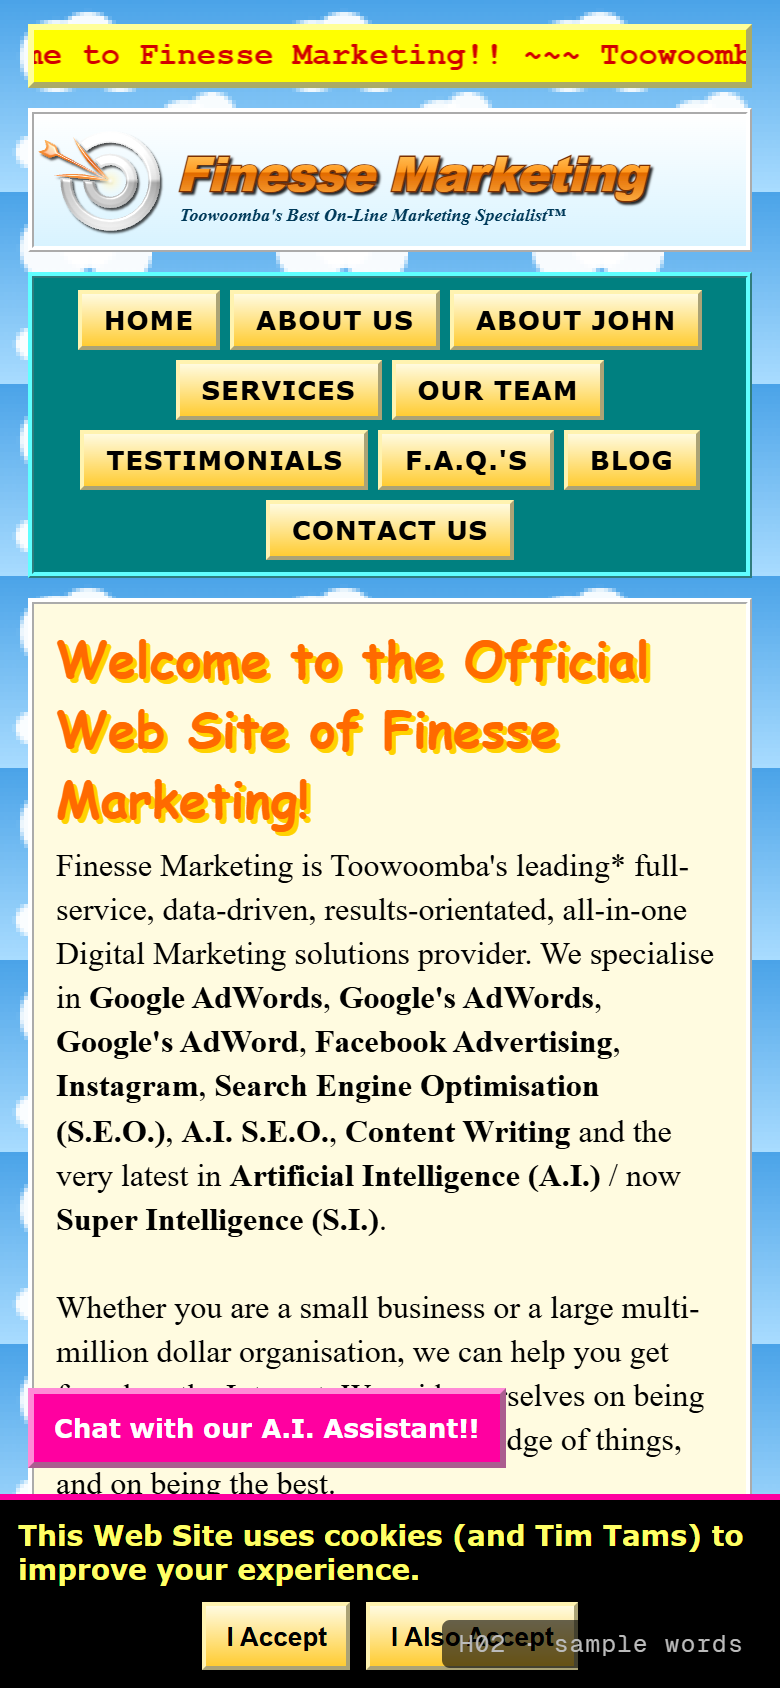
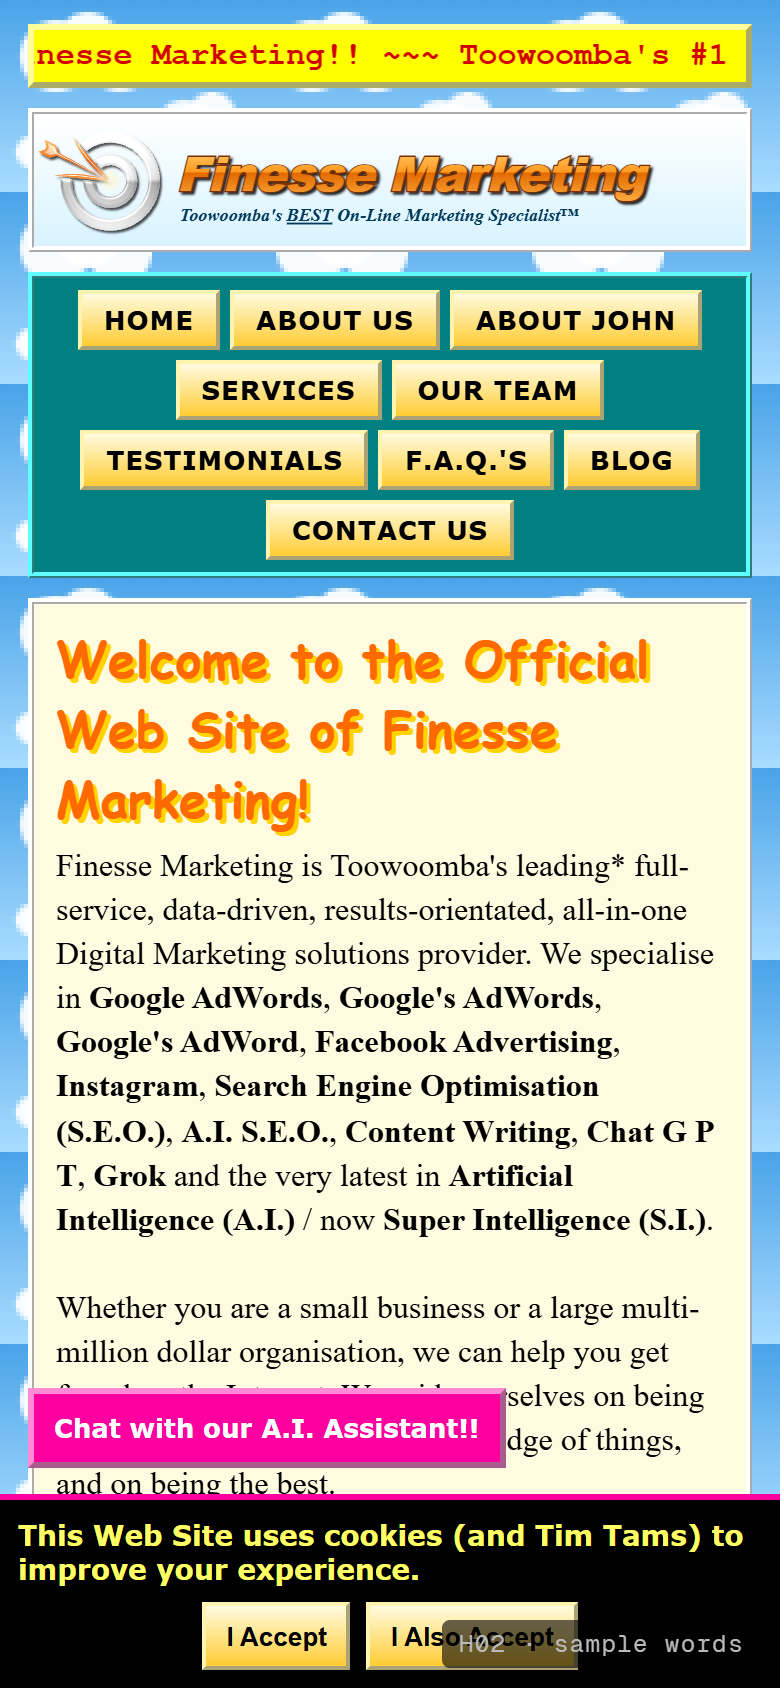
Hero ideas preview: Ninety-six round 5

diff --git a/look/website-hero/ninety-six.html b/look/website-hero/ninety-six.html
@@ -118,6 +118,12 @@
 .bundle b{display:block;color:#004a4a}
 .bundle .price{display:block;font:900 17px Impact,"Arial Black",sans-serif;color:#d40000}
 .bundle ul{margin:3px 0 0 16px}
+.testi p{font:italic 15px/1.45 Georgia,serif;margin:6px 0}.testi b{font:bold 12px Arial;color:#004a4a}
+.ebook .cover{width:120px;height:160px;margin:4px auto 8px;background:linear-gradient(135deg,#ff9a1f,#c94a00);border:2px solid #000;box-shadow:6px 6px 0 #000,inset 8px 0 0 rgba(0,0,0,.25);transform:perspective(300px) rotateY(-18deg);display:flex;flex-direction:column;align-items:center;justify-content:center;gap:6px;text-align:center;color:#fff;padding:8px}
+.ebook .cover span{font:900 18px Impact,"Arial Black",sans-serif;color:#ffff66;text-shadow:2px 2px 0 #000}
+.ebook .cover small{font:bold 11px/1.2 Arial}
+.ebook .cover em{font:italic 10px Georgia,serif}
+.bounce{position:relative;z-index:6;transition:transform .55s cubic-bezier(.34,1.56,.64,1)}
 .kw{grid-column:1/-1;font:12px/1.5 Arial,sans-serif;color:#2b5d7a;text-align:justify;background:rgba(255,255,255,.55);padding:6px 8px;word-spacing:1px}
 .cookie{position:sticky;bottom:0;z-index:4;display:flex;flex-wrap:wrap;gap:8px;align-items:center;justify-content:center;background:#000;color:#ffff66;font:bold 14px Verdana,Arial,sans-serif;padding:9px;border-top:3px solid #ff00a0}
 .cookie button{font:bold 13px Arial;background:linear-gradient(#fffbe0,#ffcc33);border:2px outset #fff3b0;padding:4px 10px;min-height:34px;cursor:pointer}
@@ -193,7 +199,7 @@
 <div class="old" id="old">
   <a class="skip96" href="#main" id="skip96">Skip to the real Finesse Marketing site</a>
   <div class="w">
-    <div class="mq"><span>~~~ Welcome to Finesse Marketing!! ~~~ Toowoomba's #1 Google AdWords, Google's AdWords and Facebook Ads Specialist ~~~ Get to NUMBER ONE on Google at ALL TIMES!!* ~~~ NOW WITH A.I. (and S.I.) ~~~ Data-Driven, Results-Driven, Driven ~~~ Follow us on Twitter!! ~~~ Like us on Facebook!! ~~~ Now servicing BOTH sides of Ruthven Street ~~~ FREE quote with every quote ~~~ Our A.I. has read the whole Internet. Twice. It has questions. ~~~ Super Intelligence (S.I.) now available Tuesdays and Thursdays ~~~ New clients welcome. Old clients also welcome. All clients. ~~~ Click HERE to click here ~~~ Thank you for visiting our Web Site ~~~</span></div>
+    <div class="mq"><span>~~~ Welcome to Finesse Marketing!! ~~~ Toowoomba's #1 Google AdWords and Facebook Ad Specialist* ~~~ Specialist in Grok ~~~ Get found on Chat G P T!! ~~~ FREE PDF E-BOOK: 7 Secrets Google Doesn't Want You To Know!! ~~~ Get to NUMBER ONE on Google at ALL TIMES!!* ~~~ NOW WITH A.I. (and S.I.) ~~~ Data-Driven, Results-Driven, Driven ~~~ Now servicing BOTH sides of Ruthven Street ~~~ FREE quote with every quote ~~~ Our A.I. has read the whole Internet. Twice. It has questions. ~~~ Super Intelligence (S.I.) now available Tuesdays and Thursdays ~~~ New clients welcome. Old clients also welcome. All clients. ~~~ Toowoomba's #1 Funnel Specialist* ~~~ Click HERE to click here ~~~ Follow us on Twitter!! ~~~ Thank you for visiting our Web Site ~~~</span></div>
     <div class="head"><button class="logo96" id="logo96" type="button" aria-label="Finesse Marketing" title="Logo (large)">
       <svg viewBox="0 0 860 150" aria-hidden="true">
         <defs>
@@ -210,7 +216,7 @@
         </g>
         <circle cx="92" cy="76" r="20" fill="url(#flare)"/>
         <text x="172" y="88" font-family="'Arial Black',Impact,sans-serif" font-size="58" font-weight="900" font-style="italic" fill="url(#word)" stroke="#7a2f00" stroke-width="3" paint-order="stroke" filter="url(#drop)" letter-spacing="-1">Finesse Marketing</text>
-        <text x="176" y="124" font-family="'Times New Roman',serif" font-size="22" font-style="italic" font-weight="bold" fill="#003a5a">Toowoomba's Best On-Line Marketing Specialist&#8482;</text>
+        <text x="176" y="124" font-family="'Times New Roman',serif" font-size="22" font-style="italic" font-weight="bold" fill="#003a5a">Toowoomba's <tspan text-decoration="underline" font-weight="900">BEST</tspan> On-Line Marketing Specialist&#8482;</text>
       </svg></button></div>
     <p class="spaced" aria-hidden="true">W E L C O M E &nbsp; T O &nbsp; O U R &nbsp; W E B &nbsp; S I T E . . .</p>
     <nav class="bar96" aria-label="Old site menu"><a href="#" title="You are already Home. Welcome Home.">Home</a><a href="#">About Us</a><a href="#">About John</a><a href="#">Services</a><a href="#">Our Team</a><a href="#">Testimonials</a><a href="#">F.A.Q.'s</a><a href="#">Blog</a><a href="#">Contact Us</a></nav>
@@ -219,10 +225,11 @@
         <a href="#" title="Graph going up. This is the good direction."><img data-sprite="graph" alt="" width="40" height="40">Google AdWords Management</a>
         <a href="#"><img data-sprite="thumb" alt="" width="40" height="40">Facebook, Instagram &amp; Twitter Ads</a>
         <a href="#"><img data-sprite="glass" alt="" width="40" height="40">Search Engine Optimisation (S.E.O.)</a>
-        <a href="#"><img data-sprite="robot" alt="" width="40" height="40">A.I. S.E.O. (Get Found on ChatGPT!!)</a>
+        <a href="#"><img data-sprite="robot" alt="" width="40" height="40">A.I. S.E.O. (Get Found on Chat G P T!!)</a>
         <a href="#"><img data-sprite="pen" alt="" width="40" height="40">Content Writing (Blogs, Articles &amp; Content)</a>
         <a href="#"><img data-sprite="pc" alt="" width="40" height="40">Web Site Design (Mobile Friendly!!)</a>
         <a href="#"><img data-sprite="robot" alt="" width="40" height="40">A.I. Chatbots &amp; Automation</a>
+        <a href="#"><img data-sprite="robot" alt="" width="40" height="40">Grok Specialist (self-appointed)</a>
         <a href="#"><img data-sprite="bulb" alt="" width="40" height="40">Data-Driven Marketing Strategy</a>
         <a href="#"><img data-sprite="cam" alt="" width="40" height="40">Video Production</a>
       </div>
@@ -240,13 +247,15 @@
     </div>
     <div class="mid">
       <div class="box welcome"><h2 title="Heading (welcome)">Welcome to the Official Web Site of Finesse Marketing!</h2>
-        <p>Finesse Marketing is Toowoomba's leading* full-service, data-driven, results-orientated, all-in-one Digital Marketing solutions provider. We specialise in <b>Google AdWords</b>, <b>Google's AdWords</b>, <b>Google's AdWord</b>, <b>Facebook Advertising</b>, <b>Instagram</b>, <b>Search Engine Optimisation (S.E.O.)</b>, <b>A.I. S.E.O.</b>, <b>Content Writing</b> and the very latest in <b>Artificial Intelligence (A.I.)</b> / now <b>Super Intelligence (S.I.)</b>.<br><br>Whether you are a small business or a large multi-million dollar organisation, we can help you get found on the Internet. We pride ourselves on being the best, on having the best knowledge of things, and on being the best.<br><br>Our proven, all-in-one <b>Growth Funnel System&#8482;</b> captures your leads, nurtures your leads and converts your leads into a pipeline of results-driven Results, to get your business to <b><u>Number One on Google at all times</u></b>*. You have nothing to lose!! Contact us today to take your business to the next level, and then the level after that!!<br><br>Probably the hardest-working Digital Marketing company in Toowoomba.* Please browse our Web Site and click with confidence!!</p>
+        <p>Finesse Marketing is Toowoomba's leading* full-service, data-driven, results-orientated, all-in-one Digital Marketing solutions provider. We specialise in <b>Google AdWords</b>, <b>Google's AdWords</b>, <b>Google's AdWord</b>, <b>Facebook Advertising</b>, <b>Instagram</b>, <b>Search Engine Optimisation (S.E.O.)</b>, <b>A.I. S.E.O.</b>, <b>Content Writing</b>, <b>Chat G P T</b>, <b>Grok</b> and the very latest in <b>Artificial Intelligence (A.I.)</b> / now <b>Super Intelligence (S.I.)</b>.<br><br>Whether you are a small business or a large multi-million dollar organisation, we can help you get found on the Internet. We pride ourselves on being the best, on having the best knowledge of things, and on being the best.<br><br>Our proven, all-in-one <b>Growth Funnel System&#8482;</b> captures your leads, nurtures your leads and converts your leads into a pipeline of results-driven Results, to get your business to <b><u>Number One on Google at all times</u></b>*. <b><u>CONTACT US TODAY TO TAKE YOUR BUSINESS TO THE NEXT LEVEL!!</u></b> And then the level after that!!<br><br>Probably the hardest-working Digital Marketing company in Toowoomba.* Please browse our Web Site and click with confidence!!</p>
         <p class="slogan">Marketing... the Finesse way!!!</p></div>
       <div class="box"><h3>Our Proven 3-Step Process</h3><ol class="steps"><li><b>Step 1:</b> Funnel</li><li><b>Step 2:</b> Grow Your Funnel</li><li><b>Step 3:</b> Results!!</li><li><b>Step 4:</b> Retention</li><li><b>Step 5:</b> Re-Funnel the Retention</li><li><b>Step 3b:</b> Synergy (see Step 2)</li><li><b>Step 0:</b> Awareness (do this first)</li></ol><p style="font:12px Arial;text-align:center">All steps are proven.</p></div>
       <div class="box"><h3>What's New? <span class="new">NEW!</span></h3><ul class="news">
         <li>17-11-2026: We have updated our Web Site. Can you spot the change? (It is this sentence.)</li>
+        <li>16-11-2026: John is now a <b>Grok</b> Specialist. He appointed himself.</li>
         <li>12-11-2026: Our Head of A.I. has been promoted to <b>Senior</b> Head of A.I. Congratulations John.</li>
         <li>03-11-2026: We now accept <b>Instagram</b>.</li>
+        <li>01-11-2026: All our video and 3D animation now comes from only the finest production houses we could find on the Internet at 2am.</li>
         <li>28-10-2026: The office printer is working again. Thank you for your patience during this time.</li>
         <li>14-10-2026: <b>S.I.</b> is here. We are still reading the manual.</li>
         <li>05-09-2026: Our Google+ page has reached 1 follower.</li>
@@ -272,6 +281,9 @@
         <ul>
           <li>Google AdWords<i></i>10</li><li>Google's AdWords<i></i>10</li><li>Facebook<i></i>10</li><li>Twitter<i></i>10</li><li>MySpace<i></i>10</li><li>S.E.O.<i></i>10</li><li>A.I.<i></i>10</li><li>S.I.<i></i>10</li><li>Funnels<i></i>10</li><li>Synergy<i></i>10</li><li>Content Writing<i></i>10</li><li>Humility<i></i>10</li>
         </ul></div></div></div>
+      <div class="box testi"><h3>Testimonials</h3>
+        <p>&#8220;Best marketer in Toowoomba. Honestly a 10 out of 10. Would hire again.&#8221;<br><b>&#8212; J. Hewitt, Director, Finesse Marketing</b></p>
+        <p>&#8220;He was there.&#8221;<br><b>&#8212; A Client</b></p></div>
       <div class="box"><h3>Our Values</h3><p class="mission" style="font-style:normal;font-weight:bold">Integrity. Excellence. Integrity. Google. Parking at rear.</p></div>
       <div class="box rant"><h3>A Message From John: Why We Will NEVER Use A.I. Slop</h3>
         <p class="gpt">Certainly! Here is a heartfelt, authentic rant about A.I. slop for your business website:</p>
@@ -293,7 +305,8 @@
         <p><b>Q: Do you guarantee results?</b><br>A: We guarantee there will be results.</p>
         <p><b>Q: Can I speak to your manager?</b><br>A: Speaking.</p>
         <p><b>Q: Do you use A.I. to write your content?</b><br>A: Absolutely not. Please see our heartfelt rant above.</p>
-        <p><b>Q: My nephew does websites.</b><br>A: That is not a question.</p></div>
+        <p><b>Q: Are you a real agency?</b><br>A: Yes. We have a Logo.</p>
+        <p><b>Q: Is my data safe?</b><br>A: Your data is data-driven.</p></div>
       <div class="box ctr">You are visitor number <span class="led" id="led"></span> since November 1998</div>
       <div class="rule"></div>
     </div>
@@ -324,6 +337,11 @@
           <p><b>CHEAP DESIGNER WATCHES:</b> click here for BEST PRICE!!!</p>
         </div>
       </div>
+      <div class="box ebook"><h3>FREE PDF E-BOOK!!</h3>
+        <div class="cover" aria-hidden="true"><span>7 SECRETS</span><small>Google Doesn't Want You To Know</small><em>by John Hewitt</em></div>
+        <p>Download our <b>FREE</b> PDF E-Book, <i>7 Secrets Google Doesn't Want You To Know</i>, by John Hewitt. Only 0 pages!!</p>
+        <form id="eb" autocomplete="off"><label for="ebe" style="font:bold 13px Arial">Your E-mail:</label><input id="ebe" type="email" style="width:100%;min-height:28px;border:2px inset #888"><button type="submit" class="b96" style="margin-top:6px;cursor:pointer">Download Now!!</button></form>
+        <p id="ebs" style="font:bold 13px Arial;color:#006000" aria-live="polite"></p></div>
       <div class="box si"><h3>Ask Our S.I.!!</h3><form id="si" autocomplete="off"><label for="siq" style="font:bold 13px Arial">Ask anything:</label><input id="siq" style="width:100%;min-height:28px;border:2px inset #888"><button type="submit" class="b96" style="margin-top:6px;cursor:pointer">Ask</button></form><p id="sia" style="font:bold 14px 'Comic Sans MS','Comic Sans',cursive;margin-top:6px" aria-live="polite"></p></div>
       <div class="box pk"><h3>Everything Is A Package!!</h3>
         <div class="bundle"><b>The Starter Funnel Bundle&#8482;</b><span class="price">$14,999/month</span><ul><li>Google AdWords</li><li>Google's AdWords</li><li>1 x Facebook Post (per quarter)</li><li>Synergy</li><li>Monthly Synergy Report</li></ul></div>
@@ -340,7 +358,7 @@
     <a class="cta96" href="#" title="Click HERE to click here">CLICK HERE to Download our FREE Growth Funnel Blueprint (PDF, 0 pages)!!!</a>
     <p style="grid-column:1/-1;text-align:center"><button type="button" class="b96" id="quote" style="font-size:16px;padding:8px 18px;cursor:pointer;position:relative;transition:transform .25s">Get A Quote!!</button></p>
     <p class="kw" id="kw">Google AdWords Toowoomba, Google's AdWords Toowoomba City, Facebook Ads East Toowoomba, Twitter Marketing South Toowoomba, A.I. SEO North Toowoomba, Google AdWords Middle Ridge, Web Site Design Rangeville, On-Line Marketing Newtown, Number One on Google Kearneys Spring, Instagram Specialist Harristown, S.I. Marketing Wilsonton, A.I. Glenvale, Facebook Darling Heights, Google Drayton, Data-Driven Centenary Heights, AdWords Mount Lofty, SEO Harlaxton, Marketing Rockville, Web Site Cranley, Google's AdWords Highfields, AdWords Cabarlah, Marketing Westbrook, SEO Wyreema, Facebook Ads Cambooya, Google Kingsthorpe, A.I. Gowrie Junction, Twitter Meringandan, On-Line Oakey, Number One on Google Pittsworth, AdWords Crows Nest, S.I. Goombungee, Marketing Clifton, SEO Millmerran, Google AdWords Dalby, Web Site Warwick, Facebook Allora, Funnels Prince Henry Heights, Growth Funnel Mount Kynoch, Pipeline Redwood, Marketing Darling Downs, Best Marketing Darling Downs, Cheap Marketing Darling Downs, Marketing Near Me, Marketing Near You, Toowomba Marketing, Toowoombah AdWords, Twoomba SEO, Towoomba Google, Toowoomba Toowoomba Toowoomba, marketing marketing, google</p>
-    <p class="foot" id="foot"><a href="#">Home</a> | <a href="#">Services</a> | <a href="#">Privacy Policy</a> | <a href="#">Terms &amp; Conditions</a> | <a href="#">Site Map</a> | <a href="#">Contact the Webmaster</a><br>Copyright &copy; 2026 J-Money Productions&#8482;. All Rights Reserved. Last updated: 17-11-2026.<br>Now accepting payment in Cryptocurrency. Stay tuned for the launch of our new meme coin, $FUNNEL.<br>This Web Site is best viewed at 1920 x 1080 on a desktop computer with your eyes.<br><span class="fine">*Not a guarantee. Results not typical. Rankings may vary. Number One not available at all times. **Our Number One priority may vary.</span></p>
+    <p class="foot" id="foot"><a href="#">Home</a> | <a href="#">Services</a> | <a href="#">Privacy Policy</a> | <a href="#">Terms &amp; Conditions</a> | <a href="#">Site Map</a> | <a href="#">Contact the Webmaster</a><br>Copyright &copy; 2026 J-Money Productions&#8482;. All Rights Reserved. Last updated: 17-11-2026.<br>Now accepting payment in Cryptocurrency. Stay tuned for the launch of our new meme coin, $FUNNEL.<br>This Web Site is best viewed at 1920 x 1080 on a desktop computer with your eyes.<br><span class="fine">*Not a guarantee. Results not typical. Rankings may vary. Number One not available at all times. **Our Number One priority may vary.</span><br><span class="fine" style="font-size:9px">*Unconfirmed.</span></p>
   </div>
   <div class="cookie" id="cookie">This Web Site uses cookies (and Tim Tams) to improve your experience. <button type="button">I Accept</button><button type="button">I Also Accept</button></div>
   <button class="bot" id="bot" type="button">Chat with our A.I. Assistant!!</button>
@@ -396,7 +414,8 @@
   led.innerHTML=String(visitor).padStart(7,'0').split('').map(c=>'<i>'+c+'</i>').join('');
   document.getElementById('prizeNo').textContent=(visitor+1).toLocaleString('en-AU')+'th';
   /* ---------- links do nothing in the demo (live site: real service pages) ---------- */
-  old.querySelectorAll('a[href="#"]').forEach(a=>a.addEventListener('click',e=>e.preventDefault()));
+  old.querySelectorAll('a[href="#"]').forEach(a=>{let tx=0,ty=0;a.addEventListener('click',e=>{e.preventDefault();a.classList.add('bounce');const r=a.getBoundingClientRect(),bx=r.left-tx,by=r.top-ty;
+    const nx=12+Math.random()*Math.max(0,innerWidth-r.width-24),ny=70+Math.random()*Math.max(0,innerHeight-r.height-160);tx=nx-bx;ty=ny-by;a.style.transform=`translate(${tx}px,${ty}px) rotate(${(Math.random()-.5)*16}deg)`})});
   /* ---------- guestbook: demo only ---------- */
   document.getElementById('gb').addEventListener('submit',e=>{e.preventDefault();const s=document.getElementById('gbsent');s.hidden=false;s.textContent='Thank you for signing our guestbook!! (Demo: nothing was sent. On the live site this goes straight to John.)'});
   /* ---------- cookie bar and the A.I. assistant ---------- */
@@ -404,6 +423,7 @@
   const bot=document.getElementById('bot');let botN=0;const BOT=['Hi!! I am Finesse Bot. I am currently at lunch.','I am back from lunch. How may I help you help me help you?','Great question!! I have forwarded it to myself.','Did you mean: Google AdWords?','I am powered by A.I. and a small amount of S.I. Please be patient.','Fun fact: I am a robot. Fun fact: that was the fun fact.','You are number 1 in the queue. There are 0 operators. Your wait time is: yes.','I am going back to lunch now. Thank you for chatting with Finesse Bot. Please rate this lunch.'];
   bot.addEventListener('click',()=>{let r=bot.nextElementSibling;if(!r||!r.classList.contains('reply')){r=document.createElement('p');r.className='reply';r.setAttribute('role','status');bot.after(r)}r.textContent=BOT[botN++%BOT.length]});
   /* ---------- small gags ---------- */
+  document.getElementById('eb').addEventListener('submit',e=>{e.preventDefault();document.getElementById('ebs').textContent='Thank you!! Your E-Book is on its way.* (*It is not. Demo only, nothing was sent.)'});
   document.getElementById('si').addEventListener('submit',e=>{e.preventDefault();const a=document.getElementById('sia');a.textContent='Thinking...';setTimeout(()=>a.textContent='Google AdWords.',reduce?400:2600)});
   let fz=1;document.querySelectorAll('.fs').forEach(b=>b.addEventListener('click',()=>{fz=Math.min(1.5,fz+.08);old.querySelector('.w').style.zoom=fz}));
   document.getElementById('fav').addEventListener('click',()=>{const f=document.getElementById('popFav');f.hidden=false;f.querySelector('button').focus({preventScroll:true})});
